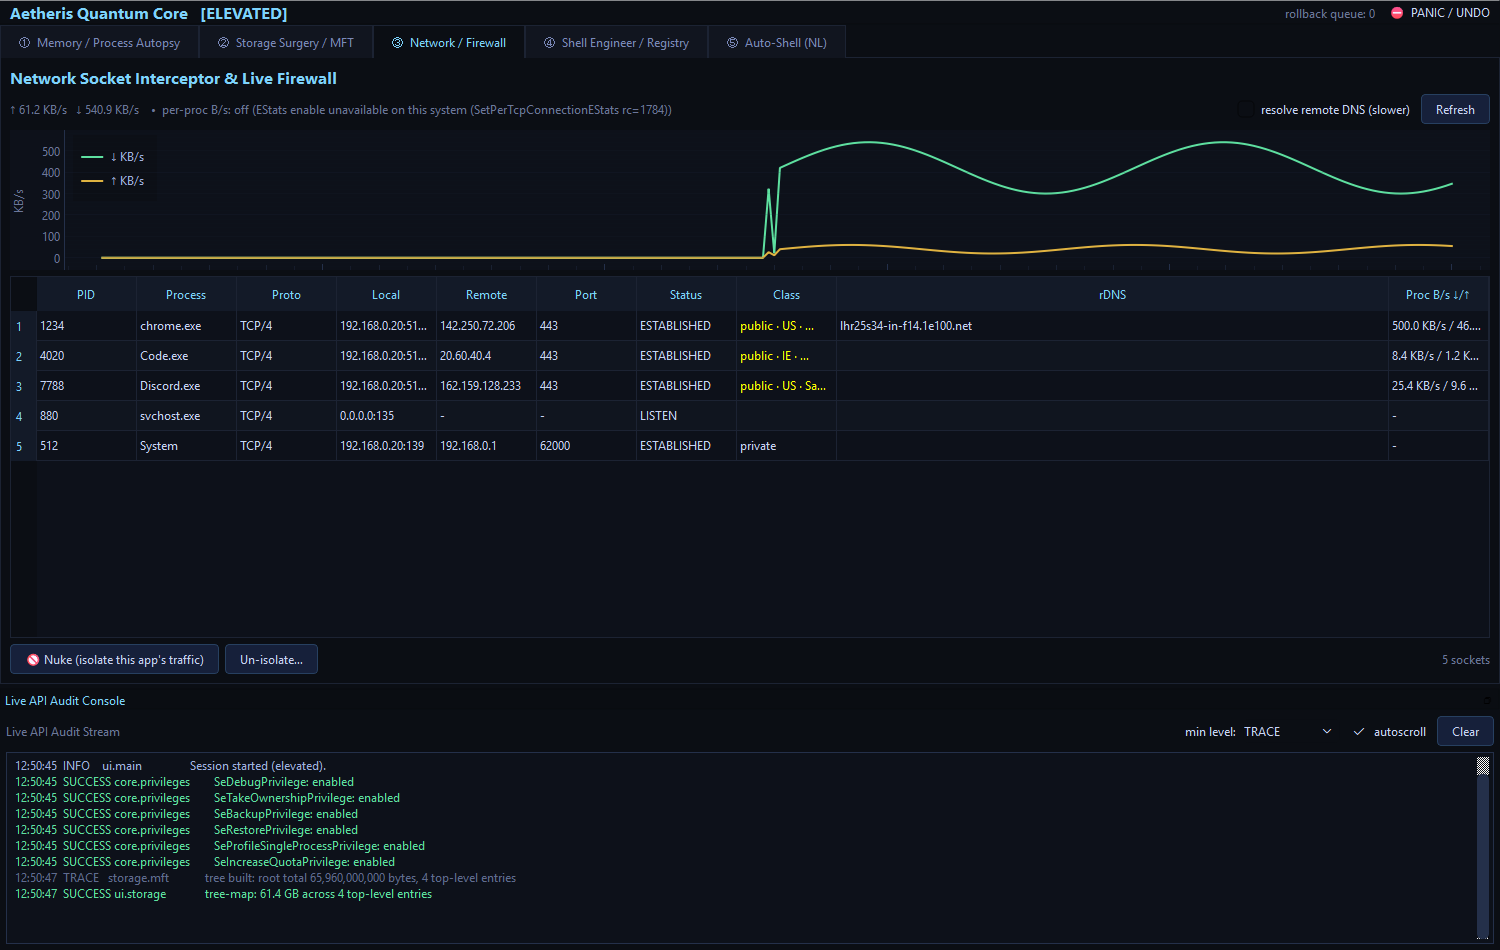
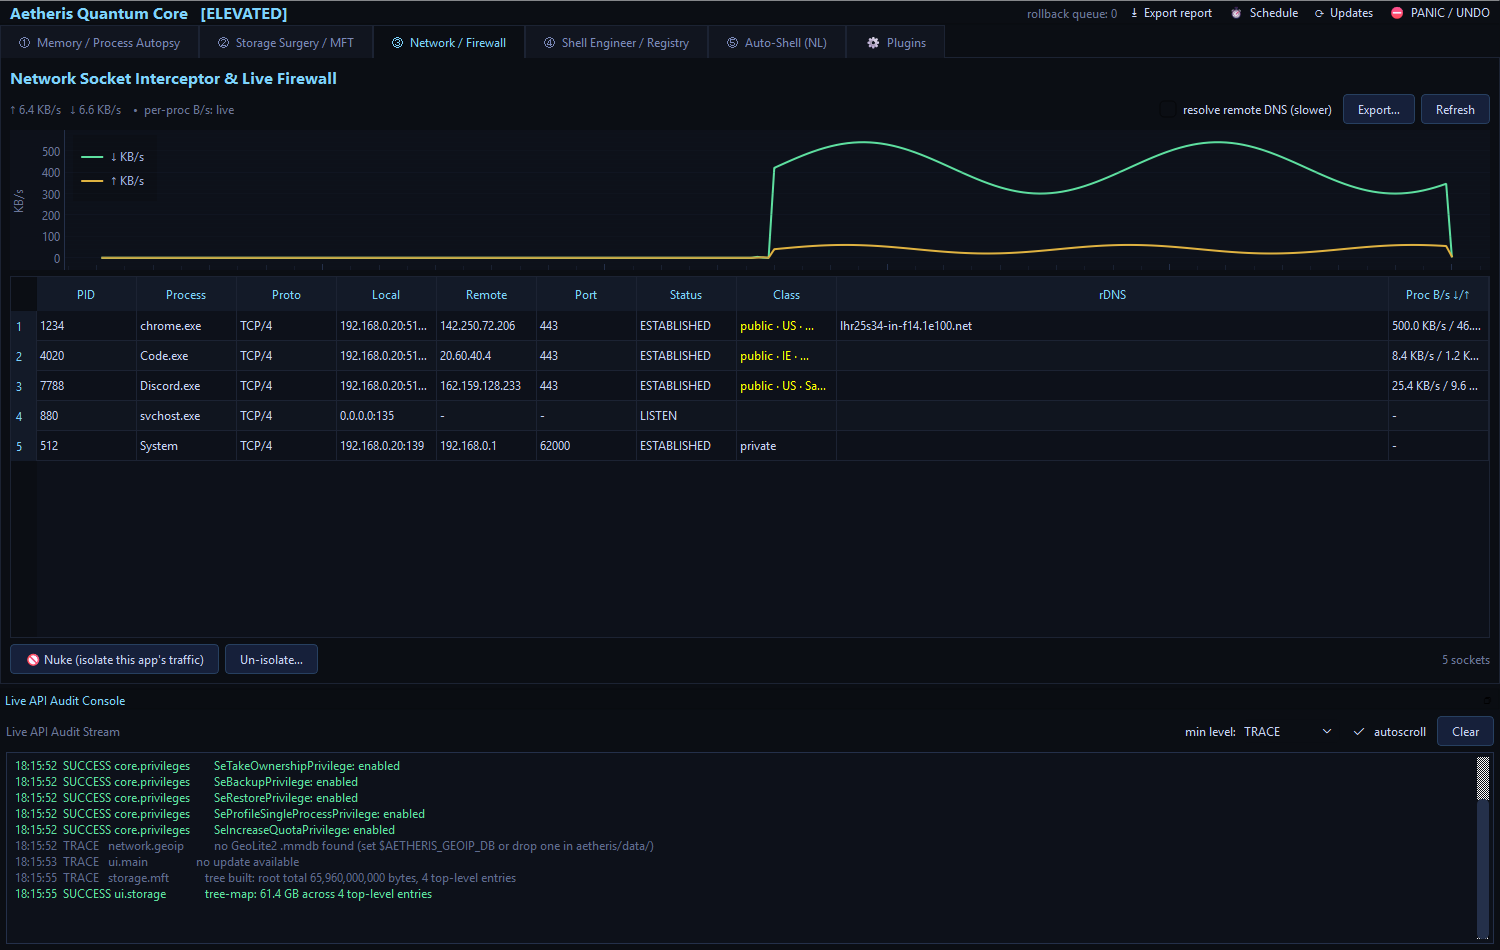
Refresh walkthrough screenshots + GIF (6 tabs, new toolbar, Plugins, Autoruns, GeoIP)

diff --git a/docs/make_screenshots.py b/docs/make_screenshots.py
@@ -146,6 +146,15 @@ def main() -> None:
     aut._compile()
     w.tabs.setCurrentIndex(4); pump(0.3); shot("05-autoshell.png")
 
+    # 6) Plugins - run the live-gauges widget plugin so the shot shows a widget
+    plugins_tab = w.tabs.widget(5)
+    for i in range(plugins_tab.list.count()):
+        if plugins_tab.list.item(i).text() == "system-gauges":
+            plugins_tab.list.setCurrentRow(i)
+            plugins_tab._run()
+            break
+    w.tabs.setCurrentIndex(5); pump(0.5); shot("06-plugins.png")
+
     if "--gif" in sys.argv:
         _build_gif()
     print("done")
@@ -158,7 +167,7 @@ def _build_gif() -> None:
         print("Pillow not installed; skipping GIF")
         return
     order = ["01-memory.png", "02-storage-treemap.png", "03-network.png",
-             "04-shell.png", "05-autoshell.png"]
+             "04-shell.png", "05-autoshell.png", "06-plugins.png"]
     imgs = []
     for f in order:
         im = Image.open(OUT / f).convert("RGB")

diff --git a/README.md b/README.md
@@ -17,13 +17,14 @@ control.
 
 ![Aetheris Quantum Core walkthrough](docs/screenshots/walkthrough.gif)
 
-The five module workspaces, rendered from the real app (representative data
-shown in place of live machine data):
+The module workspaces, rendered from the real app (representative data shown in
+place of live machine data):
 
 | | |
 |---|---|
 | ![Memory](docs/screenshots/01-memory.png) **① Memory / Process Autopsy** — process table, ASLR/DEP/signature columns, live CPU/RAM chart, Assembly Studio, and the audit console. | ![Storage](docs/screenshots/02-storage-treemap.png) **② Storage / MFT** — squarified space-utilization tree-map with drill-down. |
-| ![Network](docs/screenshots/03-network.png) **③ Network / Firewall** — socket→process table with GeoIP + per-process B/s columns, live throughput chart, "Nuke" isolation. | ![Auto-Shell](docs/screenshots/05-autoshell.png) **⑤ Auto-Shell** — plain-English → reviewed PowerShell with an intent/risk label and a mandatory confirm gate. |
+| ![Network](docs/screenshots/03-network.png) **③ Network / Firewall** — socket→process table with GeoIP + per-process B/s columns, live throughput chart, "Nuke" isolation. | ![Shell](docs/screenshots/04-shell.png) **④ Shell / Registry** — snapshot-diff suite, privacy toggles, cascading menus, and the Autoruns manager. |
+| ![Auto-Shell](docs/screenshots/05-autoshell.png) **⑤ Auto-Shell** — plain-English → reviewed PowerShell with an intent/risk label and a mandatory confirm gate. | ![Plugins](docs/screenshots/06-plugins.png) **⚙ Plugins** — text + widget extension tools (here the live-gauges widget), runnable in-app and via `aetheris-cli`. |
 
 Regenerate with `python docs/make_screenshots.py --gif`. For a live, auto-
 cycling demo to screen-record, run `python docs/demo_mode.py`. The layered
